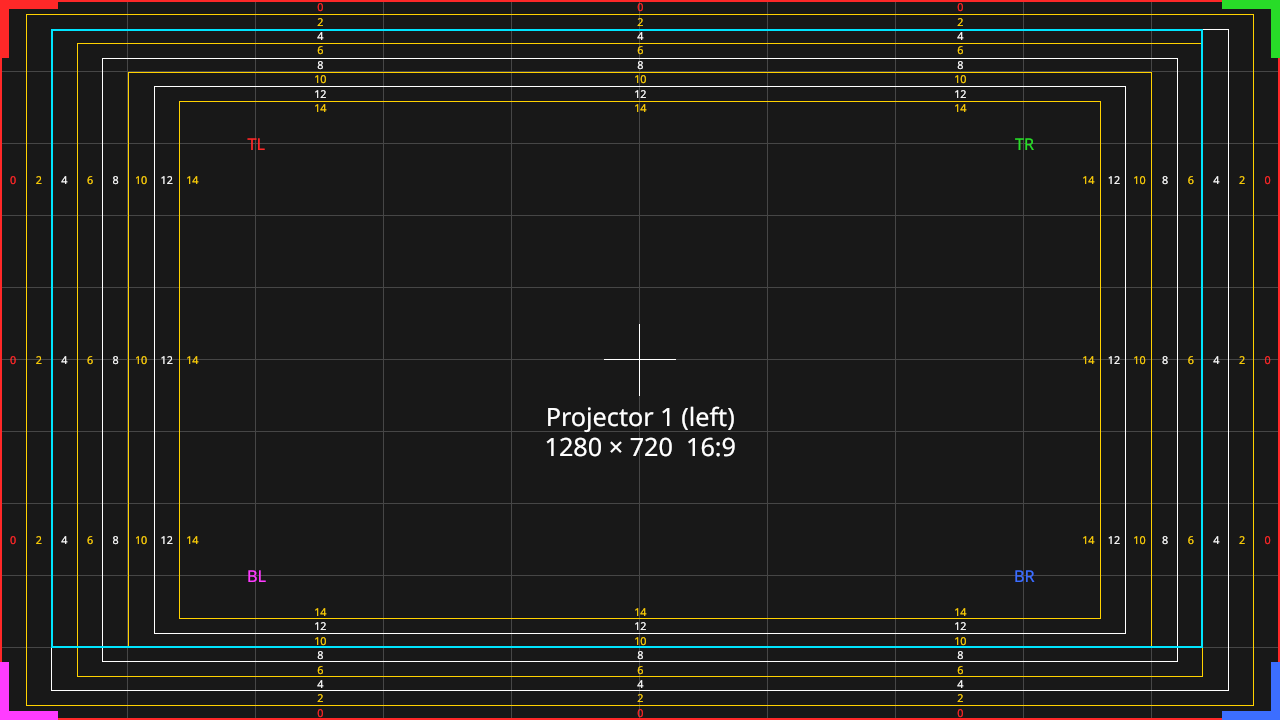
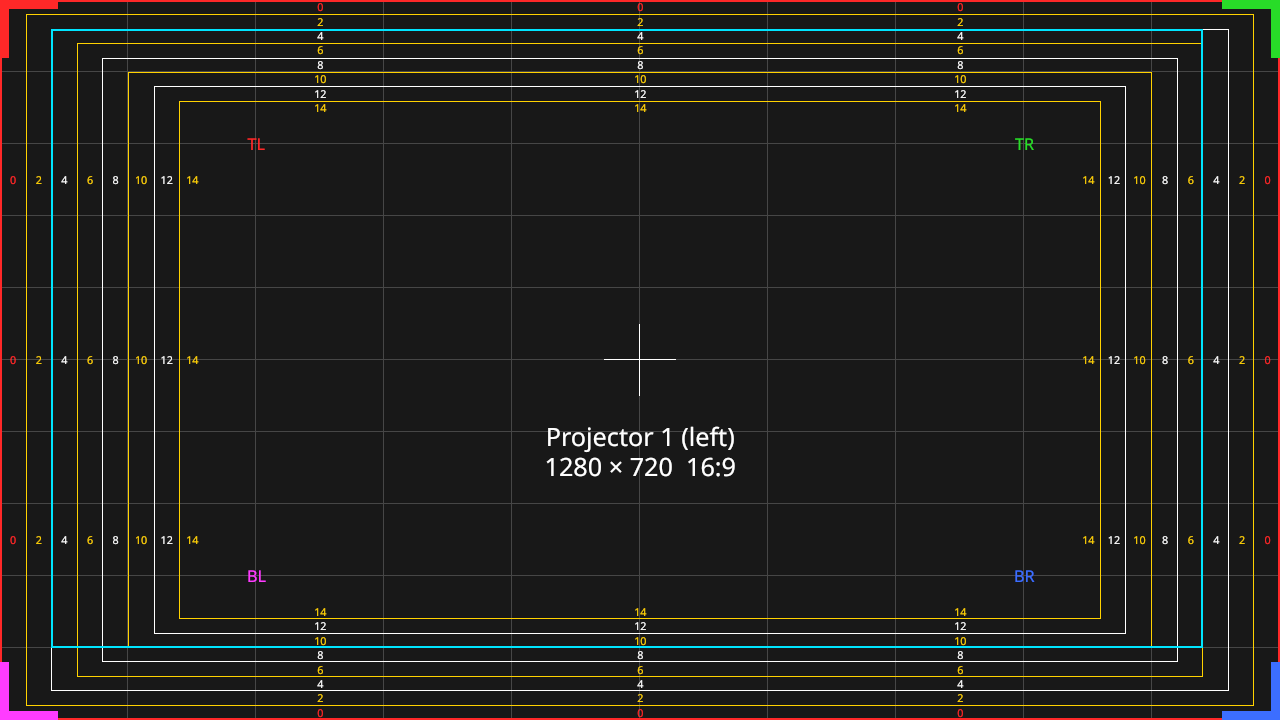
lampstand-render: calibrate example for title safety on real screens
Opens a borderless fullscreen output on --display N (--list to see them),
cursor hidden, showing the calibration grid. Tab/1-4 picks an edge, arrows
move it, margins show on screen and save per display to
lampstand-calibration.json. T toggles a lyric slide in that safe area,
B bleed/fit, S the safe-area outline.

Changed region(s): [[0.4062, 0.55, 0.5938, 0.6722]]

diff --git a/crates/lampstand-render/examples/calibrate.rs b/crates/lampstand-render/examples/calibrate.rs
@@ -1,0 +1,275 @@
+//! Title-safety calibration on a real projector or TV (TS-1, TS-2, TS-3, TS-8).
+//!
+//!     cargo run -p lampstand-render --release --example calibrate -- --list
+//!     cargo run -p lampstand-render --release --example calibrate -- --display 1
+//!
+//! Options: --display N (default 0), --file PATH (default
+//! lampstand-calibration.json in the current directory).
+//!
+//! Keys:
+//!   Tab, or 1 2 3 4    pick the edge: top, right, bottom, left
+//!   Up / Right         move that edge in by 0.5% (Shift: 2%)
+//!   Down / Left        move it back out
+//!   R                  reset all margins to 0
+//!   T                  toggle calibration grid / sample lyric slide
+//!   B                  lyric slide background: bleed / fit
+//!   S                  safe-area outline on / off
+//!   Enter              save margins to the file
+//!   Esc / Q            save and quit
+//!
+//! Volunteer: on the grid, read the smallest number you can see fully on
+//! each edge; set that edge's margin to that number (the cyan line moves
+//! with it). Margins for each display are saved under the display's name and
+//! loaded again next time.
+
+use std::path::PathBuf;
+
+use lampstand_render::window::{displays, open_outputs, OutputWindow};
+use lampstand_render::winit::application::ApplicationHandler;
+use lampstand_render::winit::event::{ElementState, KeyEvent, WindowEvent};
+use lampstand_render::winit::event_loop::{ActiveEventLoop, EventLoop};
+use lampstand_render::winit::keyboard::{Key, ModifiersState, NamedKey};
+use lampstand_render::winit::window::WindowId;
+use lampstand_render::{Background, BackgroundMode, Color, Output, SafeArea, Slide, TextSlide};
+use serde_json::{json, Value};
+
+const LYRIC: &str = "Amazing grace! How sweet the sound\nThat saved a wretch like me!\nI once was lost, but now am found;\nWas blind, but now I see.";
+const EDGES: [&str; 4] = ["top", "right", "bottom", "left"];
+
+struct App {
+    display: usize,
+    file: PathBuf,
+    window: Option<OutputWindow>,
+    name: String,
+    margins: [f32; 4],
+    edge: usize,
+    lyric: bool,
+    bleed: bool,
+    outline: bool,
+    modifiers: ModifiersState,
+    status: String,
+}
+
+impl App {
+    fn safe_area(&self) -> SafeArea {
+        let [top, right, bottom, left] = self.margins;
+        SafeArea { top, right, bottom, left }
+    }
+
+    fn margins_text(&self) -> String {
+        EDGES
+            .iter()
+            .zip(self.margins)
+            .enumerate()
+            .map(|(i, (name, m))| {
+                let mark = if i == self.edge { ">" } else { " " };
+                format!("{mark}{} {:.1}%", name.to_uppercase(), m * 100.0)
+            })
+            .collect::<Vec<_>>()
+            .join("   ")
+    }
+
+    fn update(&mut self) {
+        let margins = {
+            let [t, r, b, l] = self.margins.map(|m| m * 100.0);
+            format!("T {t:.1}%  R {r:.1}%  B {b:.1}%  L {l:.1}%")
+        };
+        let slide = if self.lyric {
+            Slide::text(TextSlide::new(LYRIC).with_footer(format!(
+                "{margins}  ·  {}  ·  T grid  B bleed/fit  S outline",
+                if self.bleed { "bleed" } else { "fit" }
+            )))
+            .with_background(Background::Color(Color::rgb(20, 40, 120)))
+        } else {
+            Slide::calibration(format!(
+                "{}\n{}\nTab edge · arrows move · T lyric · Enter save · Esc quit\n{}",
+                self.name,
+                self.margins_text(),
+                self.status
+            ))
+        };
+        let (safe_area, show_safe_area) = (self.safe_area(), self.lyric && self.outline);
+        let background_mode = if self.bleed { BackgroundMode::Bleed } else { BackgroundMode::Fit };
+        let Some(window) = self.window.as_mut() else { return };
+        let output = Output { safe_area, background_mode, show_safe_area, ..window.output().clone() };
+        if let Err(e) = window.set_output(output) {
+            eprintln!("render: {e}");
+        }
+        if let Err(e) = window.set_slide(slide) {
+            eprintln!("render: {e}");
+        }
+    }
+
+    fn load(&mut self) {
+        let Ok(text) = std::fs::read_to_string(&self.file) else { return };
+        let Ok(all) = serde_json::from_str::<Value>(&text) else { return };
+        if let Some(saved) = all.get(&self.name).and_then(|d| d.get("safe_area")) {
+            for (i, edge) in EDGES.iter().enumerate() {
+                if let Some(v) = saved.get(*edge).and_then(Value::as_f64) {
+                    self.margins[i] = v as f32;
+                }
+            }
+            self.status = format!("loaded from {}", self.file.display());
+        }
+    }
+
+    fn save(&mut self) {
+        let mut all = std::fs::read_to_string(&self.file)
+            .ok()
+            .and_then(|t| serde_json::from_str::<Value>(&t).ok())
+            .filter(Value::is_object)
+            .unwrap_or_else(|| json!({}));
+        let (width, height) = self.window.as_ref().map(|w| (w.output().width, w.output().height)).unwrap_or_default();
+        let [top, right, bottom, left] = self.margins.map(|m| (m as f64 * 1000.0).round() / 1000.0);
+        all[&self.name] = json!({
+            "width": width,
+            "height": height,
+            "safe_area": { "top": top, "right": right, "bottom": bottom, "left": left },
+        });
+        let result = std::fs::write(&self.file, serde_json::to_string_pretty(&all).unwrap() + "\n");
+        self.status = match result {
+            Ok(()) => format!("saved to {}", self.file.display()),
+            Err(e) => format!("could not save: {e}"),
+        };
+        println!("{}  ({})", self.status, self.margins_text());
+    }
+}
+
+impl ApplicationHandler for App {
+    fn resumed(&mut self, event_loop: &ActiveEventLoop) {
+        if self.window.is_some() {
+            return;
+        }
+        let Some(display) = displays(event_loop).into_iter().find(|d| d.index == self.display) else {
+            eprintln!("no display {}; run with --list", self.display);
+            event_loop.exit();
+            return;
+        };
+        self.name = display.name.clone();
+        self.load();
+        let output = Output::new(display.size.0, display.size.1).with_safe_area(self.safe_area());
+        match open_outputs(event_loop, [(display, output, Slide::default())]) {
+            Ok((_, mut windows)) => {
+                let window = windows.remove(0);
+                window.window().focus_window();
+                self.window = Some(window);
+                self.update();
+            }
+            Err(e) => {
+                eprintln!("could not open output: {e}");
+                event_loop.exit();
+            }
+        }
+    }
+
+    fn window_event(&mut self, event_loop: &ActiveEventLoop, _id: WindowId, event: WindowEvent) {
+        match &event {
+            WindowEvent::CloseRequested => {
+                self.save();
+                event_loop.exit();
+                return;
+            }
+            WindowEvent::ModifiersChanged(m) => self.modifiers = m.state(),
+            WindowEvent::KeyboardInput { event: KeyEvent { logical_key, state: ElementState::Pressed, .. }, .. } => {
+                let step = if self.modifiers.shift_key() { 0.02 } else { 0.005 };
+                match logical_key {
+                    Key::Named(NamedKey::Escape) => {
+                        self.save();
+                        event_loop.exit();
+                        return;
+                    }
+                    Key::Named(NamedKey::Tab) => self.edge = (self.edge + 1) % 4,
+                    Key::Named(NamedKey::ArrowUp | NamedKey::ArrowRight) => {
+                        self.margins[self.edge] = (self.margins[self.edge] + step).min(0.45)
+                    }
+                    Key::Named(NamedKey::ArrowDown | NamedKey::ArrowLeft) => {
+                        self.margins[self.edge] = (self.margins[self.edge] - step).max(0.0)
+                    }
+                    Key::Named(NamedKey::Enter) => self.save(),
+                    Key::Character(c) => match c.to_lowercase().as_str() {
+                        "1" | "2" | "3" | "4" => self.edge = c.parse::<usize>().unwrap() - 1,
+                        "q" => {
+                            self.save();
+                            event_loop.exit();
+                            return;
+                        }
+                        "r" => self.margins = [0.0; 4],
+                        "t" => self.lyric = !self.lyric,
+                        "b" => self.bleed = !self.bleed,
+                        "s" => self.outline = !self.outline,
+                        _ => return,
+                    },
+                    _ => return,
+                }
+                self.update();
+            }
+            _ => {}
+        }
+        if let Some(window) = self.window.as_mut() {
+            if let Err(e) = window.handle_event(&event) {
+                eprintln!("render: {e}");
+            }
+        }
+    }
+}
+
+fn main() {
+    let mut args = std::env::args().skip(1);
+    let mut app = App {
+        display: 0,
+        file: PathBuf::from("lampstand-calibration.json"),
+        window: None,
+        name: String::new(),
+        margins: [0.0; 4],
+        edge: 0,
+        lyric: false,
+        bleed: true,
+        outline: true,
+        modifiers: ModifiersState::empty(),
+        status: String::new(),
+    };
+    let mut list = false;
+    while let Some(arg) = args.next() {
+        match arg.as_str() {
+            "--list" => list = true,
+            "--display" => match args.next().and_then(|v| v.parse().ok()) {
+                Some(n) => app.display = n,
+                None => return eprintln!("--display needs a number; see --list"),
+            },
+            "--file" => match args.next() {
+                Some(path) => app.file = path.into(),
+                None => return eprintln!("--file needs a path"),
+            },
+            _ => return eprintln!("usage: calibrate [--list] [--display N] [--file PATH]"),
+        }
+    }
+    let event_loop = EventLoop::new().expect("event loop");
+    if list {
+        event_loop.run_app(&mut Lister).expect("run");
+        return;
+    }
+    event_loop.run_app(&mut app).expect("run");
+}
+
+/// Prints the displays and exits.
+struct Lister;
+
+impl ApplicationHandler for Lister {
+    fn resumed(&mut self, event_loop: &ActiveEventLoop) {
+        for d in displays(event_loop) {
+            println!(
+                "--display {}  {}  {}x{} at {:?}, scale {}, {} Hz",
+                d.index,
+                d.name,
+                d.size.0,
+                d.size.1,
+                d.position,
+                d.scale_factor,
+                d.refresh_hz.map_or("?".into(), |r| format!("{r:.0}"))
+            );
+        }
+        event_loop.exit();
+    }
+
+    fn window_event(&mut self, _: &ActiveEventLoop, _: WindowId, _: WindowEvent) {}
+}

diff --git a/crates/lampstand-render/src/calibration.rs b/crates/lampstand-render/src/calibration.rs
@@ -149,7 +149,12 @@ pub fn pattern(width: u32, height: u32, safe_area: &SafeArea, label: &str) -> Pa
     p.quads.push(Quad { rect: Rect { x: w / 2.0 - cross, y: h / 2.0 - t / 2.0, width: 2.0 * cross, height: t }, color: RING_A });
     p.quads.push(Quad { rect: Rect { x: w / 2.0 - t / 2.0, y: h / 2.0 - cross, width: t, height: 2.0 * cross }, color: RING_A });
     let caption = format!("{label}\n{width} × {height}  {}", aspect_name(width, height));
-    p.labels.push(Label { text: caption, x: w / 2.0, y: h / 2.0 + cross + h * 0.05, size: h * 0.035, color: RING_A });
+    // Labels are centred on their point, so push the block down by half its
+    // height to keep a multi-line caption clear of the cross.
+    let size = h * 0.035;
+    let lines = caption.lines().count() as f32;
+    let y = h / 2.0 + cross + size + lines * size * 1.2 / 2.0;
+    p.labels.push(Label { text: caption, x: w / 2.0, y, size, color: RING_A });
     p
 }
 
